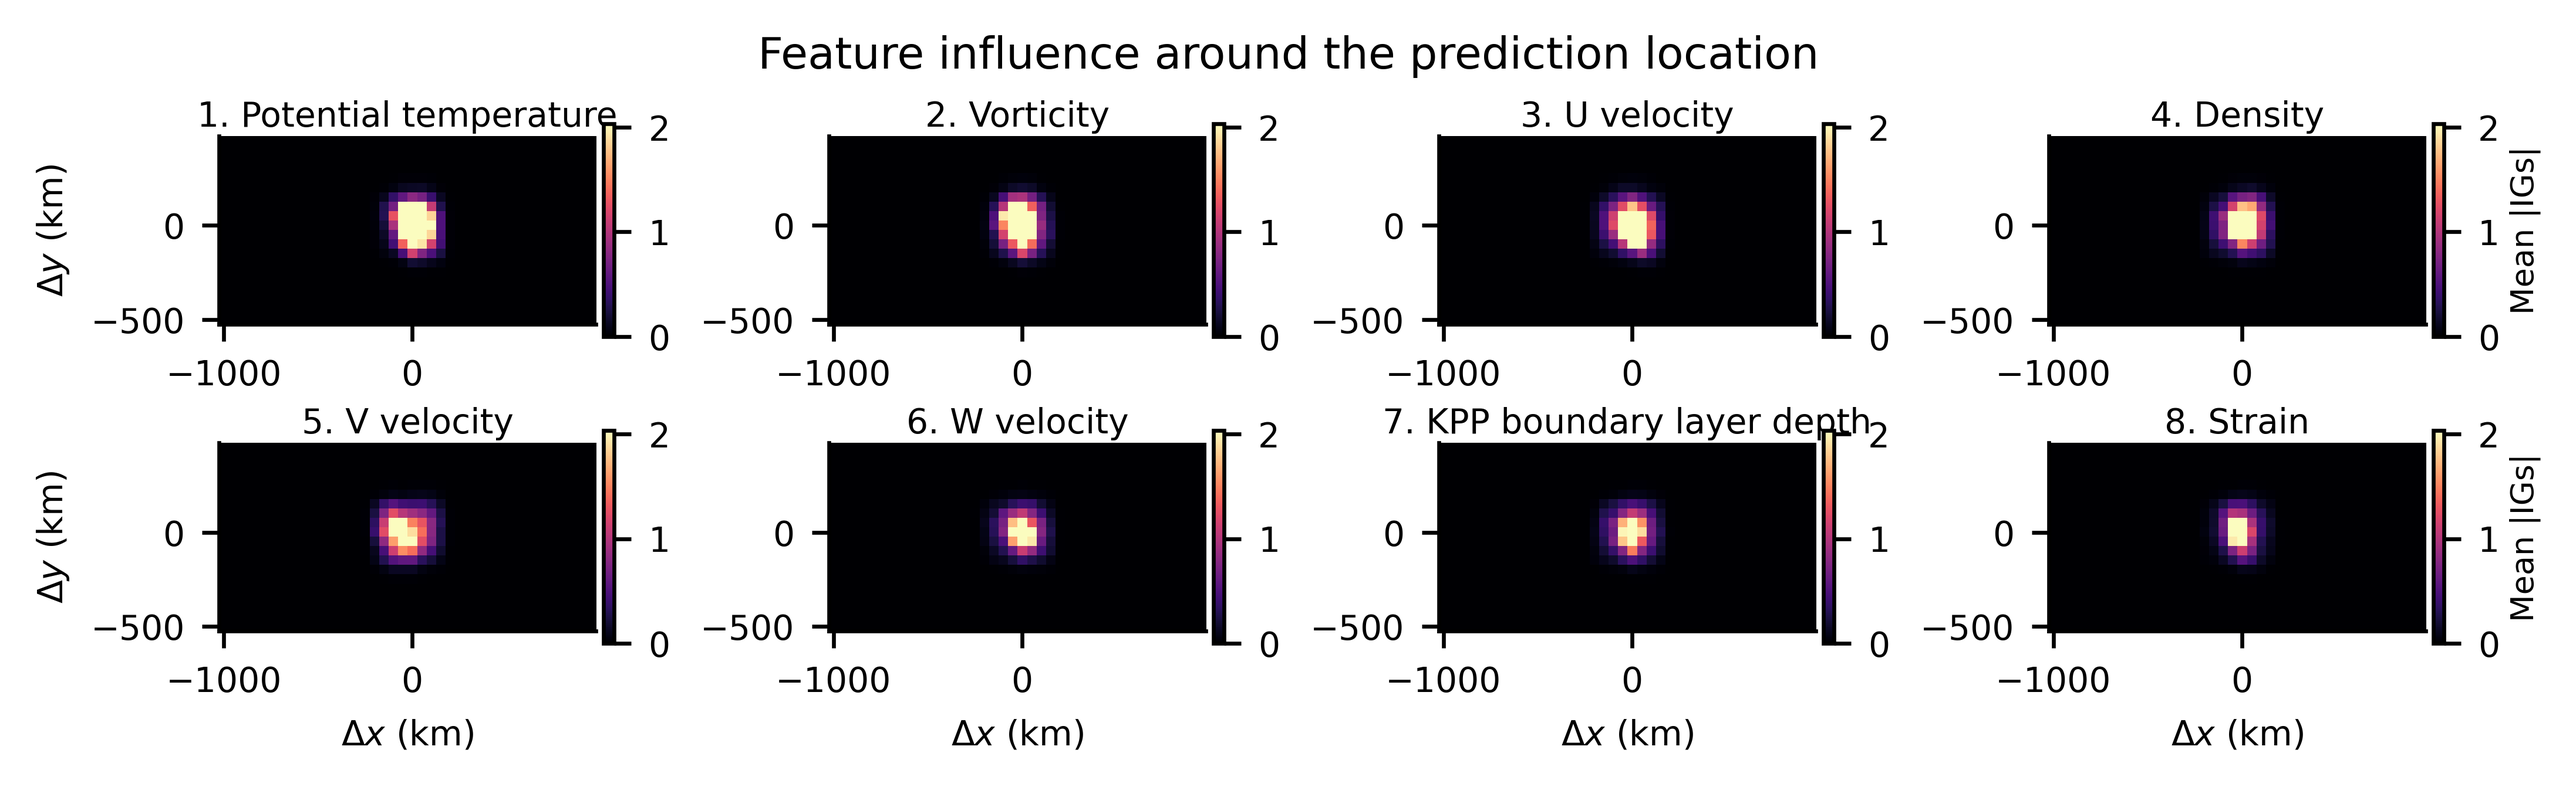
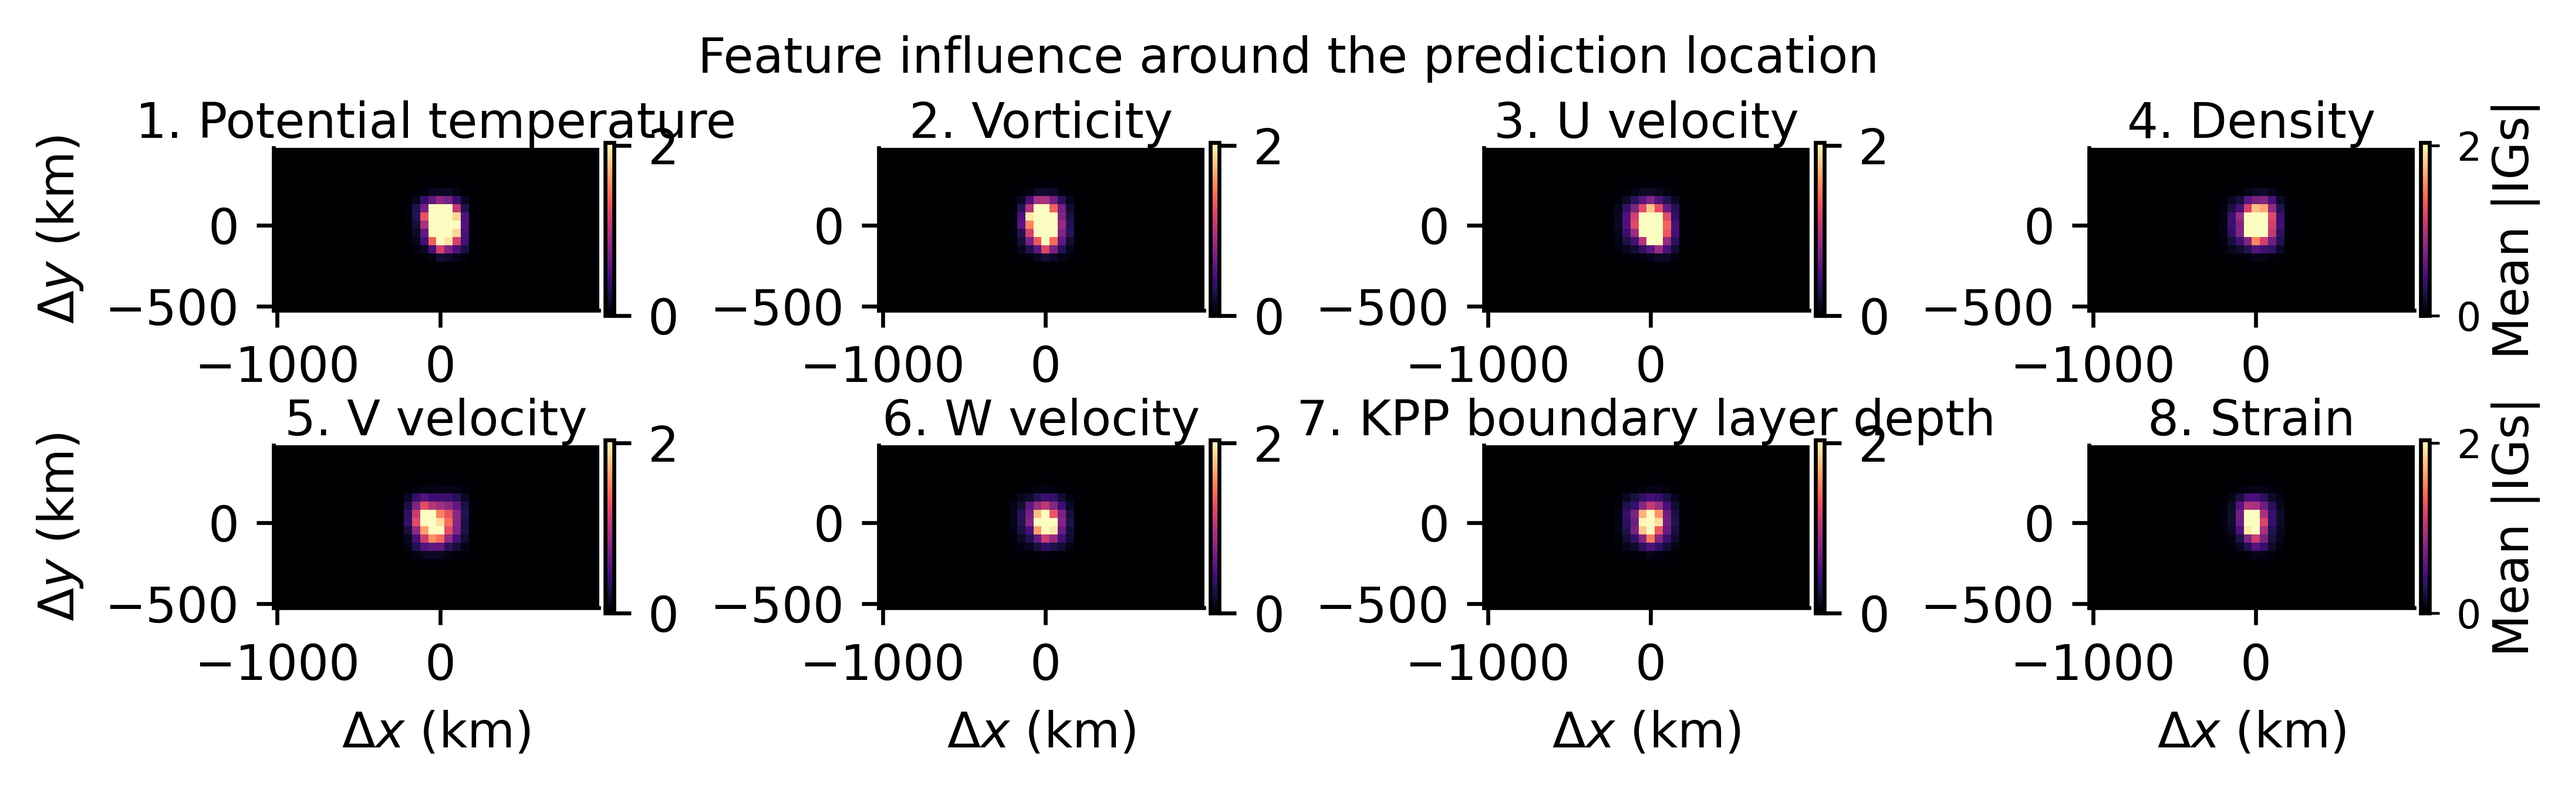
modified some plots

diff --git a/_src/analysis/explanability/integrated_gradients/plot_IG_results.py b/_src/analysis/explanability/integrated_gradients/plot_IG_results.py
@@ -23,7 +23,7 @@ def style() -> None:
     mpl.rcParams.update({
         "font.family": "sans-serif",
         "font.sans-serif": ["Arial", "Helvetica", "DejaVu Sans", "sans-serif"],
-        "font.size": 7,
+        "font.size": 10,
         "axes.spines.right": False,
         "axes.spines.top": False,
         "axes.linewidth": 0.8,
@@ -64,7 +64,7 @@ def feature_maps(
             vmin=-vmax if signed else 0, vmax=vmax, interpolation="nearest",
             extent=extent,
         )
-        ax.set_title(f"{index + 1}. {names[index]}", fontsize=8.4, pad=3)
+        ax.set_title(f"{index + 1}. {names[index]}", fontsize=11.0, pad=3)
         if extent is None:
             ax.set_xticks([0, 20])
             ax.set_yticks([0, 10])
@@ -72,23 +72,23 @@ def feature_maps(
             xmin, xmax, ymin, ymax = extent
             ax.set_xticks([xmin, 0.5 * (xmin + xmax), xmax])
             ax.set_yticks([ymin, 0.5 * (ymin + ymax), ymax])
-        ax.tick_params(labelsize=7.4, length=2.2, width=0.6)
+        ax.tick_params(labelsize=8.5, length=2.2, width=0.6)
         if index >= 4:
-            ax.set_xlabel(xlabel, fontsize=8.0)
+            ax.set_xlabel(xlabel, fontsize=10)
         else:
             ax.set_xticklabels([])
         if index % 4 == 0:
-            ax.set_ylabel(ylabel, fontsize=8.0)
+            ax.set_ylabel(ylabel, fontsize=10)
         else:
             ax.set_yticklabels([])
         for spine in ax.spines.values():
             spine.set_linewidth(0.6)
         cbar = fig.colorbar(mesh, ax=ax, fraction=0.035, pad=0.014)
-        cbar.ax.tick_params(labelsize=6.8, length=2.0, width=0.55)
+        cbar.ax.tick_params(labelsize=8.0, length=2.0, width=0.55)
         cbar.outline.set_linewidth(0.55)
         if cbar_label is not None and index % 4 == 3:
-            cbar.set_label(cbar_label, fontsize=7.0, labelpad=2)
-    fig.suptitle(title, fontsize=10.0, y=1.02)
+            cbar.set_label(cbar_label, fontsize=10.0, labelpad=2)
+    fig.suptitle(title, fontsize=13.0, y=1.02)
     fig.savefig(output, dpi=600, bbox_inches="tight", pad_inches=0.03)
     plt.close(fig)
 
@@ -130,15 +130,16 @@ def target_centered_with_distance(centered, names, curves, dx_km, dy_km, output)
             centered[index], origin="lower", aspect="equal", cmap="magma",
             vmin=0, vmax=vmax, extent=extent, interpolation="nearest",
         )
-        ax.set_title(f"{index + 1}. {names[index]}", fontsize=7, pad=2)
+        ax.set_title(f"{index + 1}. {names[index]}", fontsize=10.0, pad=2)
         if index >= 4:
             ax.set_xlabel(r"$\Delta x$ (km)")
         if index % 4 == 0:
             ax.set_ylabel(r"$\Delta y$ (km)")
         cbar = fig.colorbar(mesh, ax=ax, fraction=0.046, pad=0.02)
         if index % 4 == 3:
-            cbar.set_label("Mean |IGs|", fontsize=6.5, labelpad=2)
-    fig.suptitle("Feature influence around the prediction location", fontsize=9)
+            cbar.ax.tick_params(labelsize=8.0, length=2.0, width=0.55)
+            cbar.set_label("Mean |IGs|", fontsize=10.0, labelpad=2)
+    fig.suptitle("Feature influence around the prediction location", fontsize=10.0)
     fig.savefig(output, dpi=600, bbox_inches="tight")
     plt.close(fig)
 
@@ -154,7 +155,7 @@ def lag_plot(lag_feature, offsets, names, output):
     axes[0].plot(offsets, total_fraction, color="#1F5A85", marker="o", linewidth=1.2)
     axes[0].set_xlabel("Temporal offset")
     axes[0].set_ylabel("Fraction of total |IG|")
-    axes[0].set_title("Total attribution by lag", fontsize=8)
+    axes[0].set_title("Total attribution by lag", fontsize=10.0)
     axes[0].set_ylim(0, max(0.05, float(np.nanmax(total_fraction)) * 1.15))
     axes[0].grid(axis="y", color="#D0D0D0", linewidth=0.4)
     mesh = axes[1].imshow(
@@ -166,8 +167,9 @@ def lag_plot(lag_feature, offsets, names, output):
     axes[1].set_yticks(np.arange(len(offsets)))
     axes[1].set_yticklabels(offsets)
     axes[1].set_ylabel("Temporal offset")
-    axes[1].set_title("Feature-wise attribution across temporal offsets", fontsize=8)
-    fig.colorbar(mesh, ax=axes[1], fraction=0.046, pad=0.02)
+    axes[1].set_title("Feature-wise attribution across temporal offsets", fontsize=10.0)
+    cbar = fig.colorbar(mesh, ax=axes[1], fraction=0.046, pad=0.02)
+    cbar.ax.tick_params(labelsize=8.0, length=2.0, width=0.55)
     fig.savefig(output, dpi=600, bbox_inches="tight")
     plt.close(fig)
 

diff --git a/_src/analysis/generalization_test/non_local/evaluation_subdomain_1_year_plot.py b/_src/analysis/generalization_test/non_local/evaluation_subdomain_1_year_plot.py
@@ -91,7 +91,7 @@ def apply_style() -> None:
             "font.sans-serif": ["Arial", "Helvetica", "DejaVu Sans", "Liberation Sans", "sans-serif"],
             "svg.fonttype": "none",
             "pdf.fonttype": 42,
-            "font.size": 7,
+            "font.size": 9,
             "axes.spines.right": False,
             "axes.spines.top": False,
             "axes.linewidth": 0.8,
@@ -356,15 +356,23 @@ def draw_figure(
     best_sample: int,
 ) -> None:
     apply_style()
+    title_fs = 10.5
+    axis_label_fs = 10.5
+    tick_fs = 7.8
+    legend_fs = 8.5
+    annotation_fs = 8.5
+    cbar_label_fs = 8.5
     x = sample_index[start:stop]
     y = r2[start:stop]
     y_smooth = rolling_median(y, smooth_window)
     fk_smooth = rolling_median(fk_r2, smooth_window) if fk_r2 is not None else None
 
-    fig = plt.figure(figsize=(8.9, 3.15))
-    ax = fig.add_axes([0.075, 0.17, 0.505, 0.68])
-    ax_map = fig.add_axes([0.685, 0.17, 0.241, 0.68])
-    cax = fig.add_axes([0.938, 0.17, 0.016, 0.68])
+    # Allocate more horizontal space to the skill time series, which is the
+    # primary result, while retaining a compact square domain map.
+    fig = plt.figure(figsize=(9.8, 3.35))
+    ax = fig.add_axes([0.065, 0.16, 0.59, 0.72])
+    ax_map = fig.add_axes([0.735, 0.18, 0.18, 0.64])
+    cax = fig.add_axes([0.945, 0.18, 0.016, 0.64])
 
     fluxnet_label = rf"SubmesoFluxNet, mean $R^2$={mean_r2:.3f}"
     ax.plot(x, y, color=PALETTE["line"], linewidth=0.55, alpha=0.42)
@@ -386,15 +394,15 @@ def draw_figure(
     pad = max(0.06 * (high - low), 0.04)
     ax.set_xlim(int(x[0]), int(x[-1]))
     ax.set_ylim(low - pad, high + pad)
-    ax.set_xlabel("Evaluation subdomain data index", fontsize=8.0)
-    ax.set_ylabel(r"Snapshot $R^2$", fontsize=8.0)
-    ax.set_title(r"Non-local $R^2$ vs time", fontsize=9.4, pad=4)
+    ax.set_xlabel("Evaluation subdomain data index", fontsize=axis_label_fs)
+    ax.set_ylabel(r"Snapshot $R^2$", fontsize=axis_label_fs)
+    ax.set_title(r"Non-local $R^2$ vs time", fontsize=title_fs, pad=5)
     ax.grid(axis="y", color=PALETTE["neutral_light"], linewidth=0.45, alpha=0.65)
-    ax.tick_params(labelsize=7.2, length=2.5, width=0.7)
+    ax.tick_params(labelsize=tick_fs, length=2.5, width=0.7)
     ax.legend(
         loc="center",
         bbox_to_anchor=(0.43, 0.18),
-        fontsize=6.8,
+        fontsize=legend_fs,
         handlelength=1.8,
         borderaxespad=0.0,
     )
@@ -407,18 +415,18 @@ def draw_figure(
     ax_map.set_aspect("equal", adjustable="box")
     ax_map.set_xticks([0, 20, 40])
     ax_map.set_yticks([0, 20, 40])
-    ax_map.tick_params(labelsize=7.6, length=2.5, width=0.7)
-    ax_map.set_xlabel("x index", fontsize=8.0)
-    ax_map.set_ylabel("y index", fontsize=8.0)
-    ax_map.set_title("Submesoscale VHF", fontsize=9.4, pad=4)
+    ax_map.tick_params(labelsize=tick_fs, length=2.5, width=0.7)
+    ax_map.set_xlabel("x index", fontsize=axis_label_fs)
+    ax_map.set_ylabel("y index", fontsize=axis_label_fs)
+    ax_map.set_title("Submesoscale VHF", fontsize=title_fs, pad=5)
     ax_map.text(
         -0.05,
         0.75,
-        "Analysis\nsubdomain",
+        "Training\nsubdomain",
         transform=ax_map.transAxes,
         ha="right",
         va="center",
-        fontsize=7.2,
+        fontsize=annotation_fs,
         color=PALETTE["neutral_dark"],
     )
     ax_map.text(
@@ -428,14 +436,14 @@ def draw_figure(
         transform=ax_map.transAxes,
         ha="right",
         va="center",
-        fontsize=7.2,
+        fontsize=annotation_fs,
         color=PALETTE["neutral_dark"],
     )
 
     cbar = fig.colorbar(image, cax=cax, ticks=[-60, -40, -20, 0, 20, 40, 60])
-    cbar.ax.tick_params(labelsize=7.0, length=2.2, width=0.55, colors=PALETTE["neutral_dark"])
+    cbar.ax.tick_params(labelsize=tick_fs, length=2.2, width=0.55, colors=PALETTE["neutral_dark"])
     cbar.outline.set_linewidth(0.55)
-    cbar.set_label(r"W m$^{-2}$", fontsize=7.2, color=PALETTE["neutral_dark"], labelpad=4)
+    cbar.set_label(r"W m$^{-2}$", fontsize=cbar_label_fs, color=PALETTE["neutral_dark"], labelpad=4)
 
     output_prefix.parent.mkdir(parents=True, exist_ok=True)
     fig.savefig(output_prefix.with_suffix(".png"), dpi=600, bbox_inches="tight", pad_inches=0.03)

diff --git a/_src/analysis/explanability/bottle_feature/temporal_average_correlation/temporal_average_correlation.py b/_src/analysis/explanability/bottle_feature/temporal_average_correlation/temporal_average_correlation.py
@@ -218,6 +218,8 @@ def plot_feature_lines(output, values, variables, days, dpi):
     output.mkdir(parents=True, exist_ok=True)
     rows = []
     abs_values = np.abs(values)
+
+    # Keep the original one-feature-per-file outputs for detailed inspection.
     for feature in range(4):
         fig, ax = plt.subplots(figsize=(6.8, 3.8), constrained_layout=True)
         for vi, variable in enumerate(variables):
@@ -242,6 +244,41 @@ def plot_feature_lines(output, values, variables, days, dpi):
             fig.savefig(output / f"temporal_average_correlation_feature_{feature + 1}.{extension}",
                         dpi=dpi, bbox_inches="tight", pad_inches=0.03)
         plt.close(fig)
+
+    # Publication-friendly combined panel: four bottleneck features, one shared legend.
+    fig, axes = plt.subplots(2, 2, figsize=(7.2, 5.25), constrained_layout=False, sharex=True, sharey=True)
+    fig.subplots_adjust(left=0.095, right=0.765, bottom=0.105, top=0.93, wspace=0.17, hspace=0.22)
+    legend_handles = []
+    legend_labels = []
+    panel_labels = ["a", "b", "c", "d"]
+    for feature, ax in enumerate(axes.ravel()):
+        for vi, variable in enumerate(variables):
+            color, marker, linestyle = styles[variable]
+            line, = ax.plot(days, abs_values[vi, :, feature], color=color, marker=marker,
+                            linestyle=linestyle, linewidth=1.15, markersize=3.2,
+                            label=lookup[variable][1])
+            if feature == 0:
+                legend_handles.append(line)
+                legend_labels.append(lookup[variable][1])
+        ax.set_xscale("log")
+        ax.set_xticks(days, labels=[f"{day:g}" for day in days])
+        ax.minorticks_off()
+        ax.set_ylim(0.0, 1.02)
+        ax.grid(axis="y", color="#D8D8D8", linewidth=0.42)
+        ax.set_title(f"{panel_labels[feature]}, Feature {feature + 1}", loc="left", fontsize=8.8, pad=3)
+        ax.tick_params(labelsize=6.7, length=2.3, width=0.65)
+    for ax in axes[:, 0]:
+        ax.set_ylabel(r"Average spatial Pearson $|r|$", fontsize=7.6)
+    for ax in axes[1, :]:
+        ax.set_xlabel("Temporal averaging window (model days)", fontsize=7.6)
+    fig.legend(legend_handles, legend_labels, title="Physical diagnostics",
+               loc="center left", bbox_to_anchor=(0.785, 0.52), fontsize=7.2,
+               title_fontsize=7.5, frameon=False, handlelength=2.2, borderaxespad=0.0)
+    for extension in ("png", "pdf"):
+        fig.savefig(output / f"temporal_average_correlation_features_combined.{extension}",
+                    dpi=dpi, bbox_inches="tight", pad_inches=0.03)
+    plt.close(fig)
+
     with (output / "selected_physical_variables_by_feature.csv").open("w", newline="") as handle:
         writer = csv.DictWriter(handle, fieldnames=["feature", "variable", "final_window_days", "average_absolute_correlation"])
         writer.writeheader()

diff --git a/_src/analysis/fk_submesofluxnet_snapshot_comparison/plot_best_fluxnet_snapshot_comparison.py b/_src/analysis/fk_submesofluxnet_snapshot_comparison/plot_best_fluxnet_snapshot_comparison.py
@@ -331,6 +331,7 @@ def draw_main_figure(
     error_norm = Normalize(vmin=0.0, vmax=max(error_limit, 1.0e-6))
     corr_norm = TwoSlopeNorm(vmin=-1.0, vcenter=0.0, vmax=1.0)
 
+    panel_title_fs = 8.5
     fig, axes = plt.subplots(2, 4, figsize=(7.1, 2.75), constrained_layout=False)
     panels = (
         (axes[0, 0], left_truth, "RdBu_r", field_norm),
@@ -350,10 +351,10 @@ def draw_main_figure(
     fig.subplots_adjust(left=0.055, right=0.985, top=0.895, bottom=0.205, wspace=0.035, hspace=0.24)
 
     for ax, title in zip(axes[0], ("Truth", "Prediction", "Error", "Temporal correlation")):
-        ax.set_title(title, fontsize=7.4, pad=3)
+        ax.set_title(title, fontsize=panel_title_fs, pad=3)
 
-    axes[0, 0].set_ylabel("SubmesoFluxNet", fontsize=7.4, color=PALETTE["neutral_dark"], labelpad=4)
-    axes[1, 0].set_ylabel(fk_label, fontsize=7.4, color=PALETTE["neutral_dark"], labelpad=4)
+    axes[0, 0].set_ylabel("SubmesoFluxNet", fontsize=panel_title_fs, color=PALETTE["neutral_dark"], labelpad=4)
+    axes[1, 0].set_ylabel("MLE\nparameterization", fontsize=panel_title_fs, color=PALETTE["neutral_dark"], labelpad=4)
 
     # Place compact manual colorbars without changing the equal-sized map panels.
     fig.canvas.draw()
@@ -367,14 +368,14 @@ def draw_main_figure(
     cbar = fig.colorbar(images[1], cax=heat_cax, orientation="horizontal")
     cbar.ax.tick_params(labelsize=5.4, length=2, width=0.5, colors=PALETTE["neutral_dark"])
     cbar.outline.set_linewidth(0.5)
-    cbar.set_label(r"Heat flux (W m$^{-2}$)", fontsize=5.6, color=PALETTE["neutral_dark"], labelpad=0.5)
+    cbar.set_label(r"Heat flux (W m$^{-2}$)", fontsize=panel_title_fs, color=PALETTE["neutral_dark"], labelpad=0.5)
     for image, anchor_ax, label in single_col_items:
         pos = anchor_ax.get_position()
         cax = fig.add_axes([pos.x0, pos.y0 - 0.055, pos.width, 0.018])
         cbar = fig.colorbar(image, cax=cax, orientation="horizontal")
         cbar.ax.tick_params(labelsize=5.4, length=2, width=0.5, colors=PALETTE["neutral_dark"])
         cbar.outline.set_linewidth(0.5)
-        cbar.set_label(label, fontsize=5.6, color=PALETTE["neutral_dark"], labelpad=0.5)
+        cbar.set_label(label, fontsize=panel_title_fs, color=PALETTE["neutral_dark"], labelpad=0.5)
 
     save_figure(fig, output_prefix)
     plt.close(fig)

diff --git a/_src/analysis/time_mean_skill_comparison/plot_annual_mean_maps.py b/_src/analysis/time_mean_skill_comparison/plot_annual_mean_maps.py
@@ -51,7 +51,7 @@ def apply_style() -> None:
             "font.sans-serif": ["Arial", "Helvetica", "DejaVu Sans", "Liberation Sans", "sans-serif"],
             "svg.fonttype": "none",
             "pdf.fonttype": 42,
-            "font.size": 7,
+            "font.size": 10.5,
             "axes.spines.right": False,
             "axes.spines.top": False,
             "axes.linewidth": 0.65,
@@ -165,9 +165,9 @@ def format_map_axis(ax: plt.Axes) -> None:
 
 def add_cbar(fig: plt.Figure, image, cax: plt.Axes, label: str) -> None:
     cbar = fig.colorbar(image, cax=cax)
-    cbar.ax.tick_params(labelsize=5.8, length=2, width=0.55, colors=PALETTE["neutral_dark"])
+    cbar.ax.tick_params(labelsize=6.5, length=2, width=0.55, colors=PALETTE["neutral_dark"])
     cbar.outline.set_linewidth(0.55)
-    cbar.set_label(label, fontsize=5.9, color=PALETTE["neutral_dark"], labelpad=1.5)
+    cbar.set_label(label, fontsize=8.5, color=PALETTE["neutral_dark"], labelpad=1.5)
 
 
 def save_figure(fig: plt.Figure, output_prefix: Path) -> None:
@@ -213,9 +213,9 @@ def draw_figure(
         (axes[0, 2], fk_label, fk),
     ):
         field_image = ax.imshow(values, origin="lower", cmap="RdBu_r", norm=field_norm, interpolation="nearest")
-        ax.set_title(title, fontsize=7.5, pad=4)
+        ax.set_title(title, fontsize=8.5, pad=4)
         format_map_axis(ax)
-    add_cbar(fig, field_image, cbar_axes[0], r"Annual-mean heat flux (W m$^{-2}$)")
+    add_cbar(fig, field_image, cbar_axes[0], "Annual-mean\nheat flux (W m$^{-2}$)")
 
     axes[1, 0].set_axis_off()
     error_image = None
@@ -224,7 +224,7 @@ def draw_figure(
         (axes[1, 2], fk_label, fk_error),
     ):
         error_image = ax.imshow(values, origin="lower", cmap="magma", norm=error_norm, interpolation="nearest")
-        ax.set_title(title, fontsize=7.5, pad=4)
+        ax.set_title(title, fontsize=8.5, pad=4)
         format_map_axis(ax)
     add_cbar(fig, error_image, cbar_axes[1], r"Error $(\Delta/\sigma_y)^2$")
 

diff --git a/_src/analysis/explanability/integrated_gradients/gridcell_integrated_gradients.py b/_src/analysis/explanability/integrated_gradients/gridcell_integrated_gradients.py
@@ -394,7 +394,7 @@ def plot_distance(
     axes[0].set_ylabel("Cumulative attribution")
     axes[0].set_ylim(0, 1.02)
     axes[0].grid(color="#D0D0D0", linewidth=0.35)
-    axes[0].legend(fontsize=6, ncol=2)
+    axes[0].legend(fontsize=8.5, ncol=2)
     y = np.arange(len(feature_names))
     axes[1].barh(y - 0.18, r50, height=0.34, color="#6B8EAD", label=r"$r_{50}$")
     axes[1].barh(y + 0.18, r90, height=0.34, color="#C75B4A", label=r"$r_{90}$")
